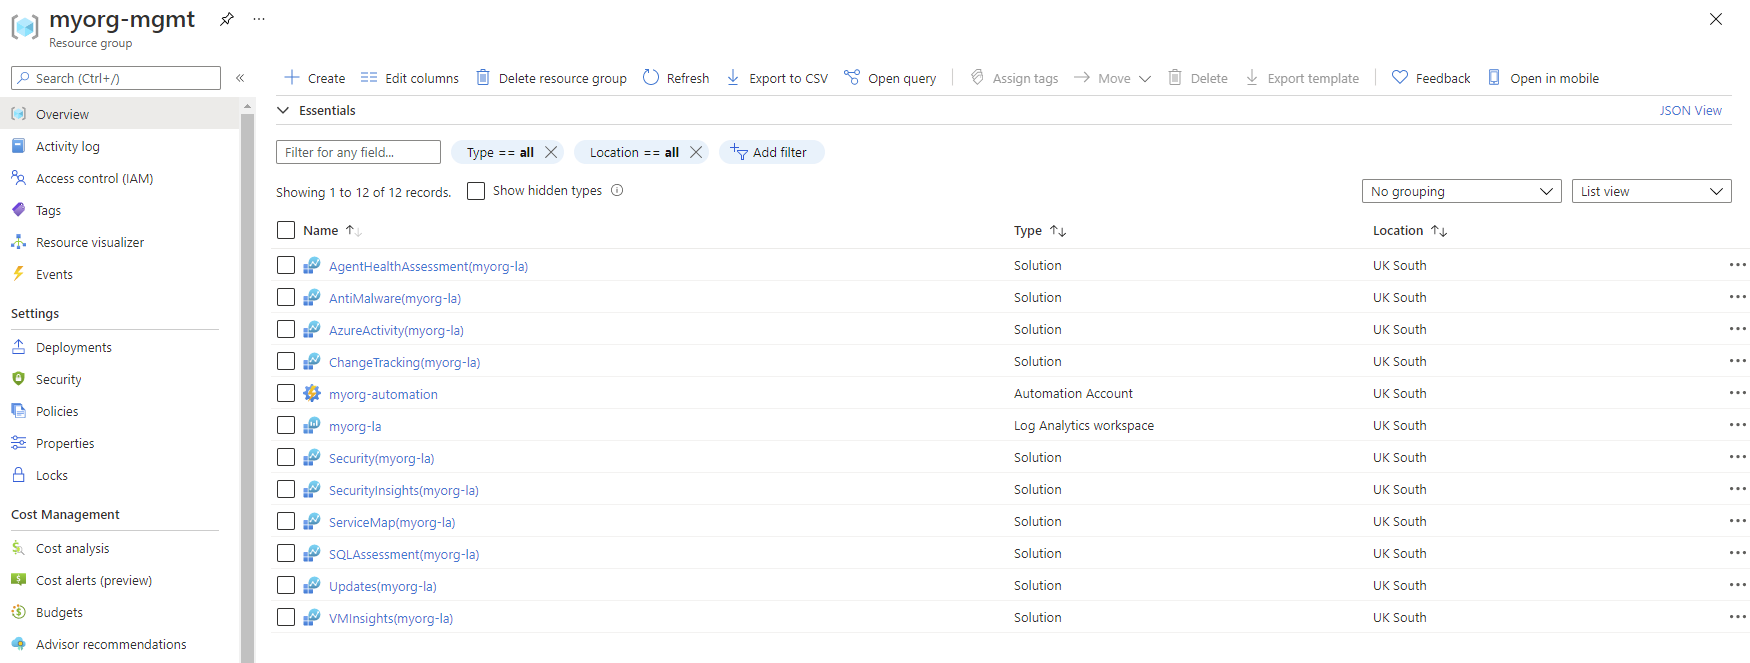
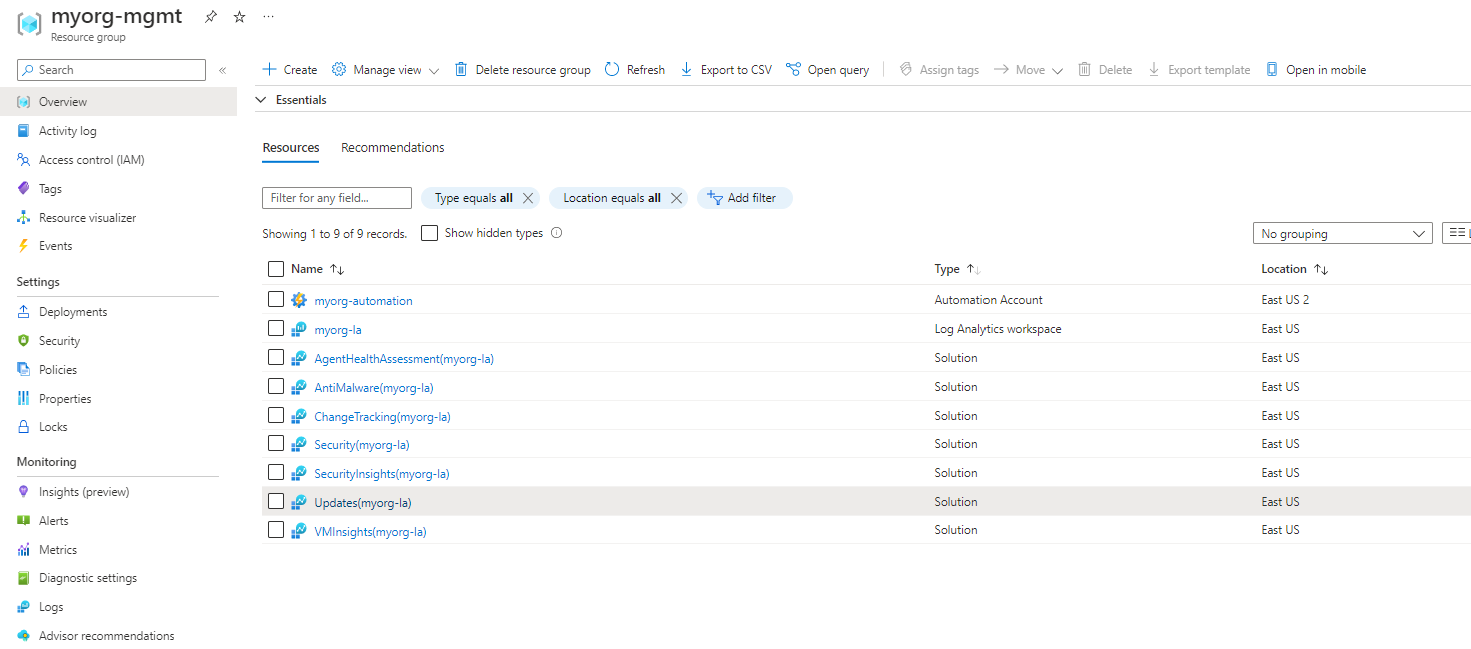
Remove Activity Log solution (#554)
* Removed Activity Log solution from Terraform RI

* Add updates to baseline_values.json

* Removed some solutions to show custom deployment

* Changed the Example file for custom management resources deployment to match the portal image

* Fixed some linter error, extra spaces

* Update as per PR review comments
https://github.com/Azure/terraform-azurerm-caf-enterprise-scale/pull/554#pullrequestreview-1216955018

* Update release notes

diff --git a/docs/wiki/[User-Guide]-Module-Variables.md b/docs/wiki/[User-Guide]-Module-Variables.md
@@ -228,7 +228,7 @@ Default:
 <br>
 
 <!-- markdownlint-disable-next-line MD013 -->
-[**configure_management_resources**][configure_management_resources] `object({ settings = object({ log_analytics = object({ enabled = bool config = object({ retention_in_days = number enable_monitoring_for_vm = bool enable_monitoring_for_vmss = bool enable_solution_for_agent_health_assessment = bool enable_solution_for_anti_malware = bool enable_solution_for_azure_activity = bool enable_solution_for_change_tracking = bool enable_solution_for_service_map = bool enable_solution_for_sql_assessment = bool enable_solution_for_sql_vulnerability_assessment = bool enable_solution_for_sql_advanced_threat_detection = bool enable_solution_for_updates = bool enable_solution_for_vm_insights = bool enable_sentinel = bool }) }) security_center = object({ enabled = bool config = object({ email_security_contact = string enable_defender_for_app_services = bool enable_defender_for_arm = bool enable_defender_for_containers = bool enable_defender_for_dns = bool enable_defender_for_key_vault = bool enable_defender_for_oss_databases = bool enable_defender_for_servers = bool enable_defender_for_sql_servers = bool enable_defender_for_sql_server_vms = bool enable_defender_for_storage = bool }) }) }) location = any tags = any advanced = any })`
+[**configure_management_resources**][configure_management_resources] `object({ settings = object({ log_analytics = object({ enabled = bool config = object({ retention_in_days = number enable_monitoring_for_vm = bool enable_monitoring_for_vmss = bool enable_solution_for_agent_health_assessment = bool enable_solution_for_anti_malware = bool enable_solution_for_change_tracking = bool enable_solution_for_service_map = bool enable_solution_for_sql_assessment = bool enable_solution_for_sql_vulnerability_assessment = bool enable_solution_for_sql_advanced_threat_detection = bool enable_solution_for_updates = bool enable_solution_for_vm_insights = bool enable_sentinel = bool }) }) security_center = object({ enabled = bool config = object({ email_security_contact = string enable_defender_for_app_services = bool enable_defender_for_arm = bool enable_defender_for_containers = bool enable_defender_for_dns = bool enable_defender_for_key_vault = bool enable_defender_for_oss_databases = bool enable_defender_for_servers = bool enable_defender_for_sql_servers = bool enable_defender_for_sql_server_vms = bool enable_defender_for_storage = bool }) }) }) location = any tags = any advanced = any })`
 
 If specified, will customize the \"Management\" landing zone settings and resources.
 
@@ -248,7 +248,6 @@ Default:
         enable_monitoring_for_vmss                        = true
         enable_solution_for_agent_health_assessment       = true
         enable_solution_for_anti_malware                  = true
-        enable_solution_for_azure_activity                = true
         enable_solution_for_change_tracking               = true
         enable_solution_for_service_map                   = true
         enable_solution_for_sql_assessment                = true

diff --git a/docs/wiki/[Variables]-configure_management_resources.md b/docs/wiki/[Variables]-configure_management_resources.md
@@ -21,7 +21,6 @@ If specified, will customize the "management" landing zone settings and resource
         enable_monitoring_for_vmss                        = true
         enable_solution_for_agent_health_assessment       = true
         enable_solution_for_anti_malware                  = true
-        enable_solution_for_azure_activity                = true
         enable_solution_for_change_tracking               = true
         enable_solution_for_service_map                   = true
         enable_solution_for_sql_assessment                = true
@@ -75,7 +74,6 @@ object({
         enable_monitoring_for_vmss                        = optional(bool, true)
         enable_solution_for_agent_health_assessment       = optional(bool, true)
         enable_solution_for_anti_malware                  = optional(bool, true)
-        enable_solution_for_azure_activity                = optional(bool, true)
         enable_solution_for_change_tracking               = optional(bool, true)
         enable_solution_for_service_map                   = optional(bool, true)
         enable_solution_for_sql_assessment                = optional(bool, true)
@@ -133,7 +131,6 @@ log_analytics = {
     enable_monitoring_for_vmss                        = true
     enable_solution_for_agent_health_assessment       = true
     enable_solution_for_anti_malware                  = true
-    enable_solution_for_azure_activity                = true
     enable_solution_for_change_tracking               = true
     enable_solution_for_service_map                   = true
     enable_solution_for_sql_assessment                = true
@@ -186,12 +183,6 @@ Deploys the following `azurerm_log_analytics_solution` to the deployed `azurerm_
 Deploys the following `azurerm_log_analytics_solution` to the deployed `azurerm_log_analytics_workspace`:
 
 - AntiMalware
-
-##### `settings.log_analytics.enable_solution_for_azure_activity`
-
-Deploys the following `azurerm_log_analytics_solution` to the deployed `azurerm_log_analytics_workspace`:
-
-- AzureActivity
 
 ##### `settings.log_analytics.enable_solution_for_change_tracking`
 

diff --git a/docs/wiki/[Examples]-Deploy-Management-Resources-With-Custom-Settings.md b/docs/wiki/[Examples]-Deploy-Management-Resources-With-Custom-Settings.md
@@ -15,6 +15,7 @@ In this example, we take the base [Deploy Management resources][wiki_deploy_mana
   - Disable Azure Defender for Azure Kubernetes Service (AKS)
   - Set a different location for Management resources (controlled through an input variable on the root module)
   - Add custom resource tags for Management resources (controlled through an input variable on the root module)
+  - Disable deployment of specified monitoring solutions in Azure Monitor (`ServiceMap`, `SQLAssessment`, `SQLAdvancedThreatProtection`, `SQLVulnerabilityAssessment`)
 
 The module allows for further customization of the Management resources through the `advanced` setting, however this is out-of-scope for this example.
 
@@ -168,12 +169,11 @@ locals {
           enable_monitoring_for_vmss                        = true
           enable_solution_for_agent_health_assessment       = true
           enable_solution_for_anti_malware                  = true
-          enable_solution_for_azure_activity                = true
           enable_solution_for_change_tracking               = true
-          enable_solution_for_service_map                   = true
-          enable_solution_for_sql_assessment                = true
-          enable_solution_for_sql_vulnerability_assessment  = true
-          enable_solution_for_sql_advanced_threat_detection = true
+          enable_solution_for_service_map                   = false
+          enable_solution_for_sql_assessment                = false
+          enable_solution_for_sql_vulnerability_assessment  = false
+          enable_solution_for_sql_advanced_threat_detection = false
           enable_solution_for_updates                       = true
           enable_solution_for_vm_insights                   = true
           enable_sentinel                                   = true

diff --git a/RELEASE.md b/RELEASE.md
@@ -10,16 +10,24 @@ The `v3.1.0` release includes a number of minor updates as listed below.
 - Updated `Deploy-Diagnostics-LogAnalytics` policy set definition to use the latest built-in policy definitions for Azure Storage
 - Updated parameters for the `Deploy-ASC-Monitoring` Policy Assignment
 - Updated managed parameters set for the `Deploy-Private-DNS-Zones` Policy Assignment
+- Removed the deprecated `ActivityLog` Azure Monitor solution
 
 ### Fixed issues
 
 - Fix [#482](https://github.com/Azure/terraform-azurerm-caf-enterprise-scale/issues/445) (Review and update private DNS zones for private endpoint #482)
 - Fix [#528](https://github.com/Azure/terraform-azurerm-caf-enterprise-scale/issues/528) (Validate parameters for Azure Security Benchmark in TF deployment #528)
+- Fix [#553](https://github.com/Azure/terraform-azurerm-caf-enterprise-scale/issues/553) (Remove Activity Log solution from Terraform RI #553)
 - Fix [#544](https://github.com/Azure/terraform-azurerm-caf-enterprise-scale/issues/544) (Missing assignment parameter values for "Configure Azure PaaS services to use private DNS zones" #544)
 
 ### Breaking changes
 
 n/a
+
+### Input variable changes
+
+The following non-breaking changes have been made to the input variables. Although these don't need to be changed for the module to work, please review to ensure no unwanted resource changes, or code that is no-longer required.
+
+- Removed `configure_management_resources.settings.log_analytics.config.enable_solution_for_azure_activity`
 
 ## For more information
 
